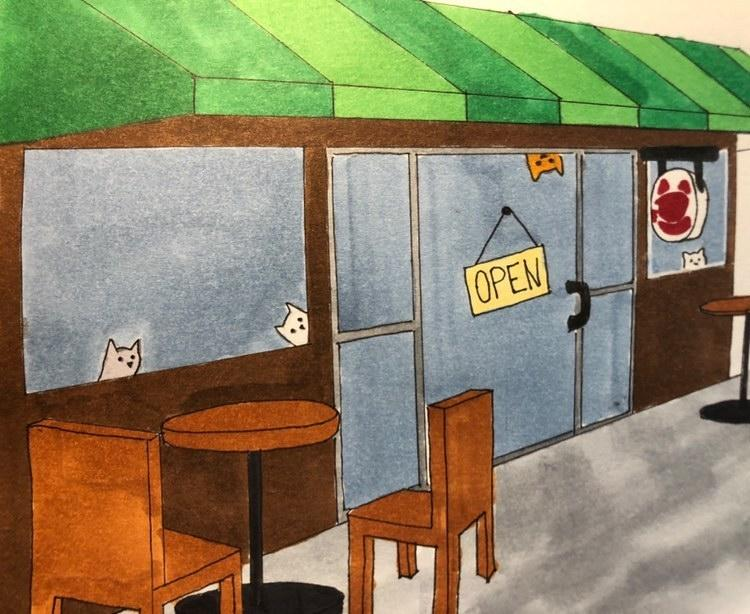
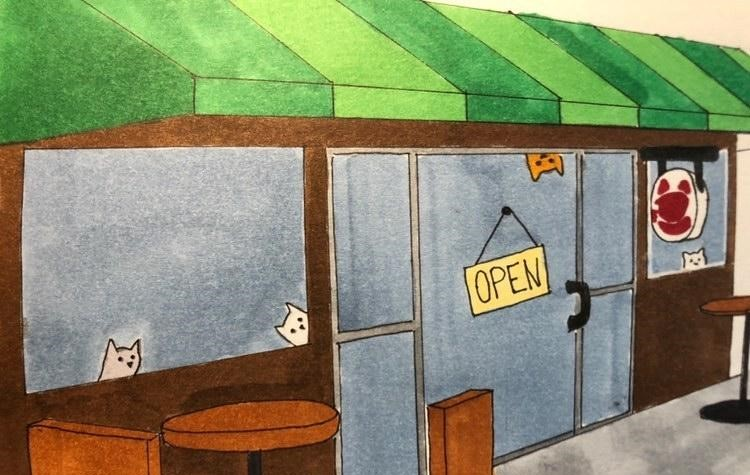
shorter footer, cleaner menu code

diff --git a/src/styles/main.css b/src/styles/main.css
@@ -247,12 +247,16 @@ a.nav-links:active {
   display: flex;
 }
 
-.items-and-prices p, .items-and-prices p {
-  font-weight: 400;
-  font-size: 20px;
-  padding: .5rem 0;
-  color: var(--dark-red);
+td.i {
+  padding-right: 4rem;
 }
+
+.items-and-prices {
+  display: flex;
+  justify-content: center;
+  margin: 0;
+}
+
 
 .m-line hr {
   margin-top: 1rem;
@@ -843,9 +847,7 @@ hr.quote-border {
 
 @media only screen and (min-width: 769px) {
   .items-and-prices {
-    display: flex;
-    width: 100%;
-    margin: 1rem 5rem;
+
   }
 }
 
@@ -955,8 +957,12 @@ hr.quote-border {
     content: "";
     clear: both;
     display: table;
+    transition-duration: .5s;
   }
-
+  .shorter-footer {
+    transform: translateY(2rem);
+    transition-duration: .5s;
+  }
   .dark-pink-block {
     background-color: var(--dark-pink);
     height: 9rem;
@@ -966,9 +972,25 @@ hr.quote-border {
     z-index: 0;
     position: relative;
     padding: 0;
-
+  }
+  .orange-block {
+    background-color: var(--orange);
+    height: 5rem;
+    margin-top: -5rem;
+    position: relative;
+    z-index: 4;
+    transform: rotate(-5deg);
+    transform-origin: top right;
+    transition-duration: .5s;
+  }
+  .dark-pink-block .pink-straighten {
+    height: 9rem;
   }
 
+  .orange-block.orange-straighten {
+    height: 2rem;
+    margin-top: 0;
+  }
   .footer-text {
     color: var(--cream);
     display: flex;
@@ -981,16 +1003,6 @@ hr.quote-border {
     padding-right: 4rem;
   }
 
-  .orange-block {
-    background-color: var(--orange);
-    height: 5rem;
-    margin-top: -5rem;
-    position: relative;
-    z-index: 4;
-    transform: rotate(-5deg);
-    transform-origin: top right;
-    transition-duration: .5s;
-  }
 
   .kitty {
     position: relative;
@@ -1049,7 +1061,7 @@ hr.quote-border {
 @media only screen and (min-width: 1216px) {
 
   .logo, img.logo {
-    width: 70px;
+    width: 90px;
     margin-top: -1.5rem;
     margin-left: 12rem;
   }

diff --git a/src/scripts/main.js b/src/scripts/main.js
@@ -3,6 +3,7 @@ let logo = document.getElementById("logo");
 let pink = document.getElementById("pink-chunk");
 let orange = document.getElementById("orange-chunk");
 let ftext = document.getElementById("foot-text");
+let footer = document.getElementById("whole-foot");
 
 // responsive nav (NOT animated below 1024px)
 let below1024 = window.matchMedia("(max-width: 1023px)");
@@ -48,10 +49,13 @@ function footFunction() {
     pink.classList.add("pink-straighten");
     orange.classList.add("orange-straighten");
     ftext.classList.remove("hideMe");
+    footer.classList.remove("shorter-footer");
   } else {
     pink.classList.remove("pink-straighten");
     orange.classList.remove("orange-straighten");
     ftext.classList.add("hideMe");
+    footer.classList.add("shorter-footer");
+
   }
 };
 
